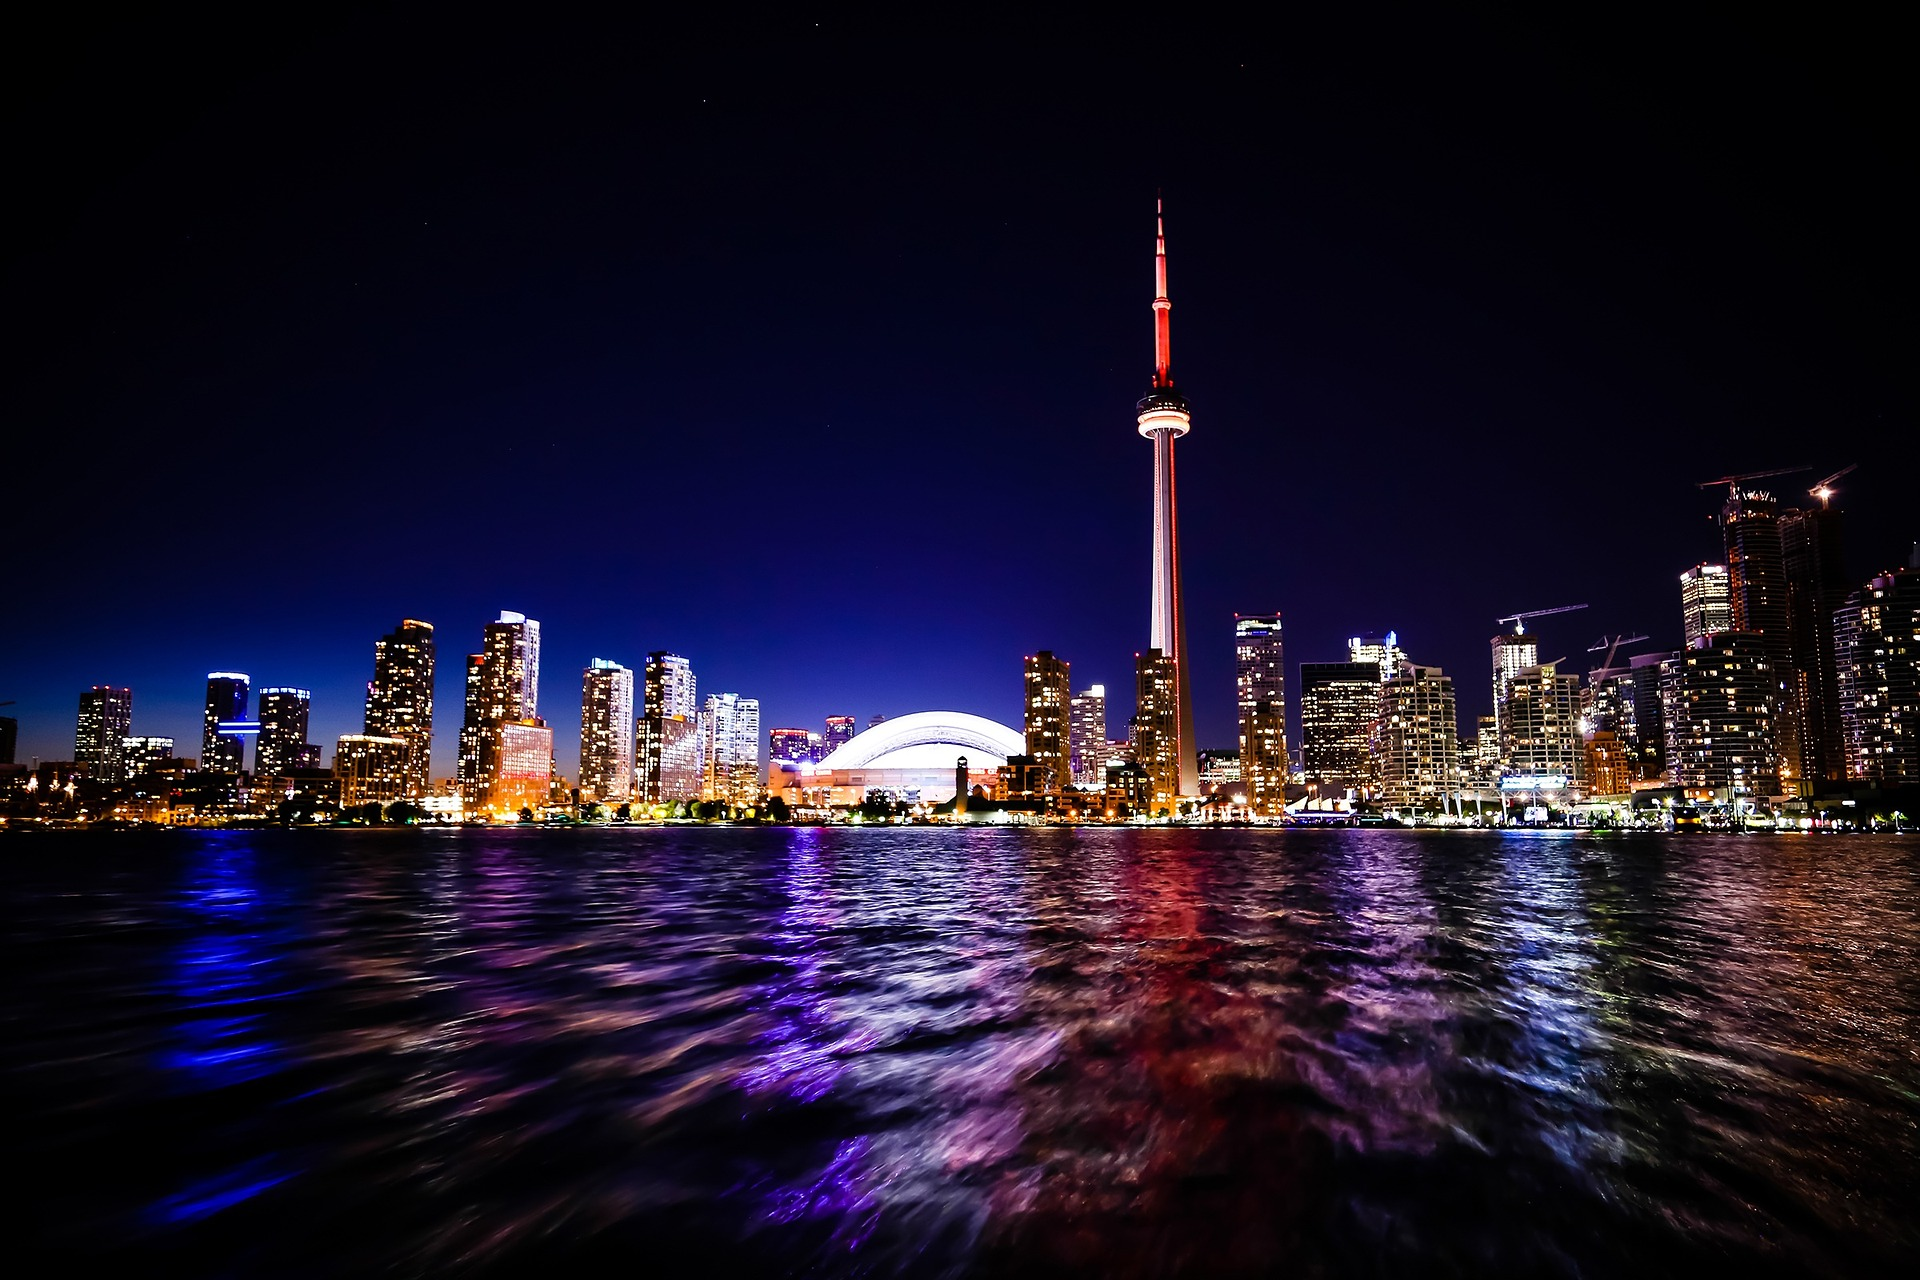
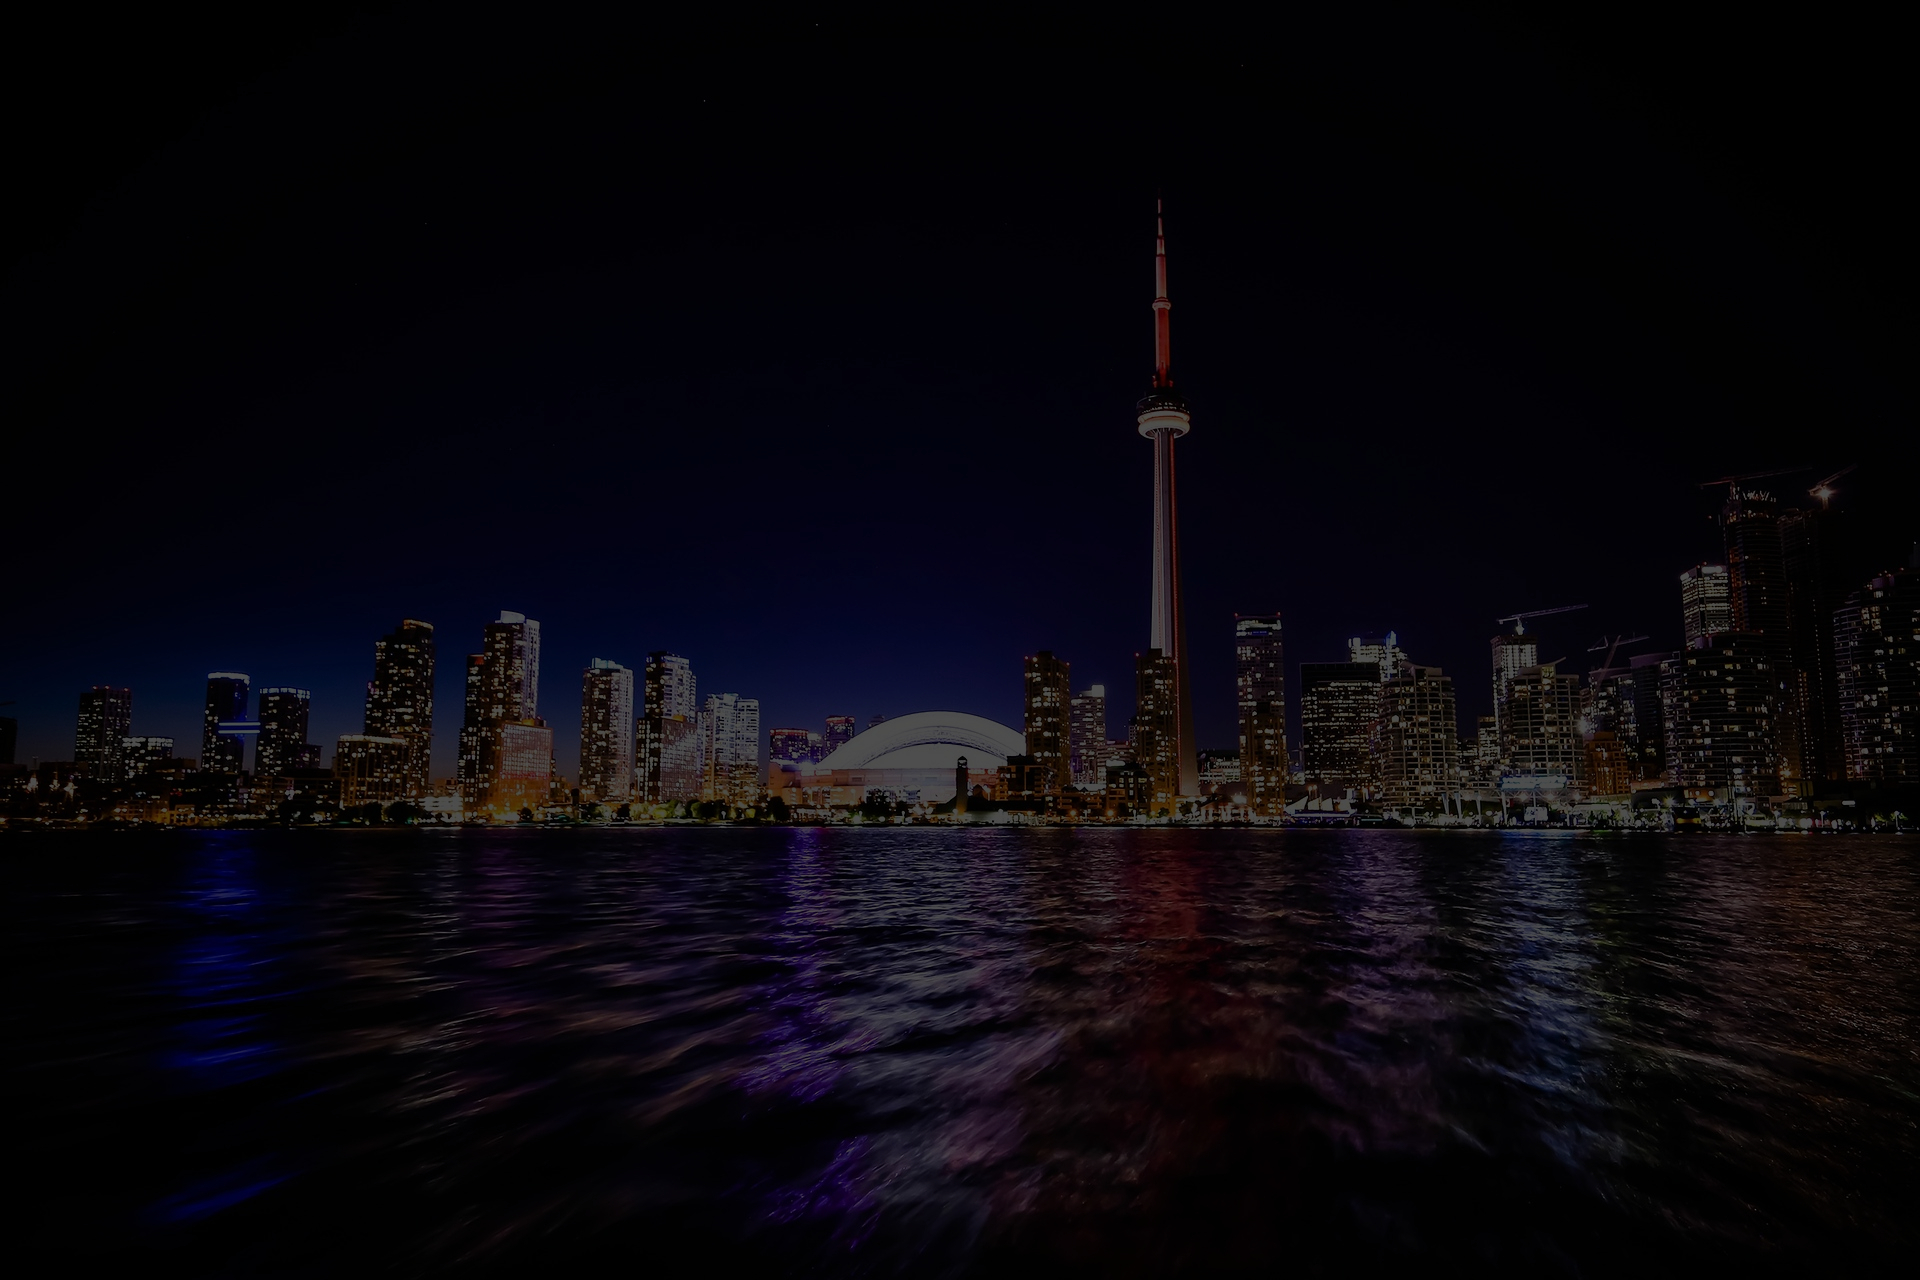
Add parallax

diff --git a/parallax.min.js b/parallax.min.js
@@ -1,0 +1,6 @@
+/*!
+ * parallax.js v1.4.2 (http://pixelcog.github.io/parallax.js/)
+ * @copyright 2016 PixelCog, Inc.
+ * @license MIT (https://github.com/pixelcog/parallax.js/blob/master/LICENSE)
+ */
+!function(t,i,e,s){function o(i,e){var h=this;"object"==typeof e&&(delete e.refresh,delete e.render,t.extend(this,e)),this.$element=t(i),!this.imageSrc&&this.$element.is("img")&&(this.imageSrc=this.$element.attr("src"));var r=(this.position+"").toLowerCase().match(/\S+/g)||[];if(r.length<1&&r.push("center"),1==r.length&&r.push(r[0]),("top"==r[0]||"bottom"==r[0]||"left"==r[1]||"right"==r[1])&&(r=[r[1],r[0]]),this.positionX!=s&&(r[0]=this.positionX.toLowerCase()),this.positionY!=s&&(r[1]=this.positionY.toLowerCase()),h.positionX=r[0],h.positionY=r[1],"left"!=this.positionX&&"right"!=this.positionX&&(this.positionX=isNaN(parseInt(this.positionX))?"center":parseInt(this.positionX)),"top"!=this.positionY&&"bottom"!=this.positionY&&(this.positionY=isNaN(parseInt(this.positionY))?"center":parseInt(this.positionY)),this.position=this.positionX+(isNaN(this.positionX)?"":"px")+" "+this.positionY+(isNaN(this.positionY)?"":"px"),navigator.userAgent.match(/(iPod|iPhone|iPad)/))return this.imageSrc&&this.iosFix&&!this.$element.is("img")&&this.$element.css({backgroundImage:"url("+this.imageSrc+")",backgroundSize:"cover",backgroundPosition:this.position}),this;if(navigator.userAgent.match(/(Android)/))return this.imageSrc&&this.androidFix&&!this.$element.is("img")&&this.$element.css({backgroundImage:"url("+this.imageSrc+")",backgroundSize:"cover",backgroundPosition:this.position}),this;this.$mirror=t("<div />").prependTo("body");var a=this.$element.find(">.parallax-slider"),n=!1;0==a.length?this.$slider=t("<img />").prependTo(this.$mirror):(this.$slider=a.prependTo(this.$mirror),n=!0),this.$mirror.addClass("parallax-mirror").css({visibility:"hidden",zIndex:this.zIndex,position:"fixed",top:0,left:0,overflow:"hidden"}),this.$slider.addClass("parallax-slider").one("load",function(){h.naturalHeight&&h.naturalWidth||(h.naturalHeight=this.naturalHeight||this.height||1,h.naturalWidth=this.naturalWidth||this.width||1),h.aspectRatio=h.naturalWidth/h.naturalHeight,o.isSetup||o.setup(),o.sliders.push(h),o.isFresh=!1,o.requestRender()}),n||(this.$slider[0].src=this.imageSrc),(this.naturalHeight&&this.naturalWidth||this.$slider[0].complete||a.length>0)&&this.$slider.trigger("load")}function h(s){return this.each(function(){var h=t(this),r="object"==typeof s&&s;this==i||this==e||h.is("body")?o.configure(r):h.data("px.parallax")?"object"==typeof s&&t.extend(h.data("px.parallax"),r):(r=t.extend({},h.data(),r),h.data("px.parallax",new o(this,r))),"string"==typeof s&&("destroy"==s?o.destroy(this):o[s]())})}!function(){for(var t=0,e=["ms","moz","webkit","o"],s=0;s<e.length&&!i.requestAnimationFrame;++s)i.requestAnimationFrame=i[e[s]+"RequestAnimationFrame"],i.cancelAnimationFrame=i[e[s]+"CancelAnimationFrame"]||i[e[s]+"CancelRequestAnimationFrame"];i.requestAnimationFrame||(i.requestAnimationFrame=function(e){var s=(new Date).getTime(),o=Math.max(0,16-(s-t)),h=i.setTimeout(function(){e(s+o)},o);return t=s+o,h}),i.cancelAnimationFrame||(i.cancelAnimationFrame=function(t){clearTimeout(t)})}(),t.extend(o.prototype,{speed:.2,bleed:0,zIndex:-100,iosFix:!0,androidFix:!0,position:"center",overScrollFix:!1,refresh:function(){this.boxWidth=this.$element.outerWidth(),this.boxHeight=this.$element.outerHeight()+2*this.bleed,this.boxOffsetTop=this.$element.offset().top-this.bleed,this.boxOffsetLeft=this.$element.offset().left,this.boxOffsetBottom=this.boxOffsetTop+this.boxHeight;var t=o.winHeight,i=o.docHeight,e=Math.min(this.boxOffsetTop,i-t),s=Math.max(this.boxOffsetTop+this.boxHeight-t,0),h=this.boxHeight+(e-s)*(1-this.speed)|0,r=(this.boxOffsetTop-e)*(1-this.speed)|0;if(h*this.aspectRatio>=this.boxWidth){this.imageWidth=h*this.aspectRatio|0,this.imageHeight=h,this.offsetBaseTop=r;var a=this.imageWidth-this.boxWidth;this.offsetLeft="left"==this.positionX?0:"right"==this.positionX?-a:isNaN(this.positionX)?-a/2|0:Math.max(this.positionX,-a)}else{this.imageWidth=this.boxWidth,this.imageHeight=this.boxWidth/this.aspectRatio|0,this.offsetLeft=0;var a=this.imageHeight-h;this.offsetBaseTop="top"==this.positionY?r:"bottom"==this.positionY?r-a:isNaN(this.positionY)?r-a/2|0:r+Math.max(this.positionY,-a)}},render:function(){var t=o.scrollTop,i=o.scrollLeft,e=this.overScrollFix?o.overScroll:0,s=t+o.winHeight;this.boxOffsetBottom>t&&this.boxOffsetTop<=s?(this.visibility="visible",this.mirrorTop=this.boxOffsetTop-t,this.mirrorLeft=this.boxOffsetLeft-i,this.offsetTop=this.offsetBaseTop-this.mirrorTop*(1-this.speed)):this.visibility="hidden",this.$mirror.css({transform:"translate3d(0px, 0px, 0px)",visibility:this.visibility,top:this.mirrorTop-e,left:this.mirrorLeft,height:this.boxHeight,width:this.boxWidth}),this.$slider.css({transform:"translate3d(0px, 0px, 0px)",position:"absolute",top:this.offsetTop,left:this.offsetLeft,height:this.imageHeight,width:this.imageWidth,maxWidth:"none"})}}),t.extend(o,{scrollTop:0,scrollLeft:0,winHeight:0,winWidth:0,docHeight:1<<30,docWidth:1<<30,sliders:[],isReady:!1,isFresh:!1,isBusy:!1,setup:function(){if(!this.isReady){var s=t(e),h=t(i),r=function(){o.winHeight=h.height(),o.winWidth=h.width(),o.docHeight=s.height(),o.docWidth=s.width()},a=function(){var t=h.scrollTop(),i=o.docHeight-o.winHeight,e=o.docWidth-o.winWidth;o.scrollTop=Math.max(0,Math.min(i,t)),o.scrollLeft=Math.max(0,Math.min(e,h.scrollLeft())),o.overScroll=Math.max(t-i,Math.min(t,0))};h.on("resize.px.parallax load.px.parallax",function(){r(),o.isFresh=!1,o.requestRender()}).on("scroll.px.parallax load.px.parallax",function(){a(),o.requestRender()}),r(),a(),this.isReady=!0}},configure:function(i){"object"==typeof i&&(delete i.refresh,delete i.render,t.extend(this.prototype,i))},refresh:function(){t.each(this.sliders,function(){this.refresh()}),this.isFresh=!0},render:function(){this.isFresh||this.refresh(),t.each(this.sliders,function(){this.render()})},requestRender:function(){var t=this;this.isBusy||(this.isBusy=!0,i.requestAnimationFrame(function(){t.render(),t.isBusy=!1}))},destroy:function(e){var s,h=t(e).data("px.parallax");for(h.$mirror.remove(),s=0;s<this.sliders.length;s+=1)this.sliders[s]==h&&this.sliders.splice(s,1);t(e).data("px.parallax",!1),0===this.sliders.length&&(t(i).off("scroll.px.parallax resize.px.parallax load.px.parallax"),this.isReady=!1,o.isSetup=!1)}});var r=t.fn.parallax;t.fn.parallax=h,t.fn.parallax.Constructor=o,t.fn.parallax.noConflict=function(){return t.fn.parallax=r,this},t(e).on("ready.px.parallax.data-api",function(){t('[data-parallax="scroll"]').parallax()})}(jQuery,window,document);

diff --git a/index.html b/index.html
@@ -2,23 +2,33 @@
 <html>
 	<head>
 		<title>THacks 2</title>
+		<meta name="viewport" content="width=device-width, initial-scale=1.0">
 		<link href="index.css" rel="stylesheet">
 		<link href="https://fonts.googleapis.com/css?family=Roboto:300" rel="stylesheet">
-		<meta name="viewport" content="width=device-width, initial-scale=1.0">
+		<script src="https://ajax.googleapis.com/ajax/libs/jquery/1.11.0/jquery.min.js"></script>
+		<script src="parallax.min.js"></script>
 	</head>
 	<body>
-		<div class="container">
-			<h1>THacks 2</h1>
-			<h2>October 21 - 22</h2>
-			<form action="//club.us11.list-manage.com/subscribe/post?u=f3b5cad98f50966fbf4d279aa&amp;id=0c25bfb678" method="post" name="mc-embedded-subscribe-form">
-				<input type="email" name="EMAIL" placeholder="Email">
-				<div style="position: absolute; left: -5000px;" aria-hidden="true"><input type="text" name="b_f3b5cad98f50966fbf4d279aa_0c25bfb678" tabindex="-1" value=""></div>
-				<input type="submit" value="Subscribe" name="subscribe">
-			</form>
-			<a class="button" href="mailto:info@thacks.tech">Contact Us</a>
-			<a class="button" href="sponsor.pdf">Become a Sponsor</a>
-		</div>
+		<header>
+			<div class="container">
+				<h1>THacks 2</h1>
+				<h2>October 21 - 22</h2>
+				<form action="//club.us11.list-manage.com/subscribe/post?u=f3b5cad98f50966fbf4d279aa&amp;id=0c25bfb678" method="post" name="mc-embedded-subscribe-form">
+					<input type="email" name="EMAIL" placeholder="Email">
+					<div style="position: absolute; left: -5000px;" aria-hidden="true"><input type="text" name="b_f3b5cad98f50966fbf4d279aa_0c25bfb678" tabindex="-1" value=""></div>
+					<input type="submit" value="Subscribe" name="subscribe">
+				</form>
+				<a class="button" href="mailto:info@thacks.tech">Contact Us</a>
+				<a class="button" href="sponsor.pdf">Become a Sponsor</a>
+			</div>
+		</header>
+		<section class="about">
+			<h3>By Students For Students</h3>
+			<p>THacks is Canada's largest hackathon run by high school students.</p>
+		</section>
 		<script>
+			$('header').parallax({imageSrc: 'background.jpg'});
+
 			(function(i,s,o,g,r,a,m){i['GoogleAnalyticsObject']=r;i[r]=i[r]||function(){
 			(i[r].q=i[r].q||[]).push(arguments)},i[r].l=1*new Date();a=s.createElement(o),
 			m=s.getElementsByTagName(o)[0];a.async=1;a.src=g;m.parentNode.insertBefore(a,m)

diff --git a/index.css b/index.css
@@ -1,23 +1,16 @@
-html {
-	height: 100%;
-}
-
 body {
-	min-height: 100%;
 	margin: 0;
-	display: flex;
-	align-items: center;
-	justify-content: center;
-	background: linear-gradient(
-		rgba(0, 0, 0, 0.8), 
-		rgba(0, 0, 0, 0.8)
-	), url('background.jpg');
-	background-size: cover;
-	background-position: 50% 50%;
 	font-family: 'Roboto', sans-serif;
 }
 
-.container {
+header {
+	height: 100vh;
+	display: flex;
+	align-items: center;
+	justify-content: center;
+}
+
+header .container {
 	width: 100%;
 	padding-bottom: 5%;
 	text-align: center;
@@ -141,4 +134,10 @@ input[type=submit]:focus {
 		padding: 6px 12px;
 		font-size: 0.8em;
 	}
+}
+
+.about {
+	padding: 2em;
+	background-color: #111;
+	color: #eee;
 }
